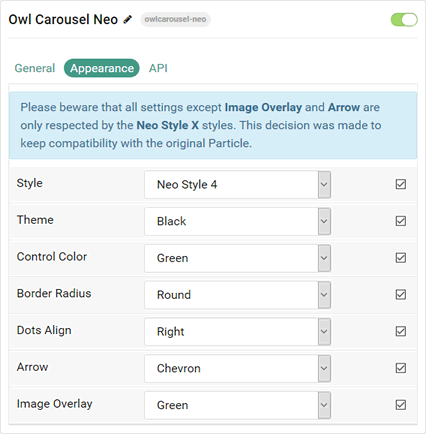
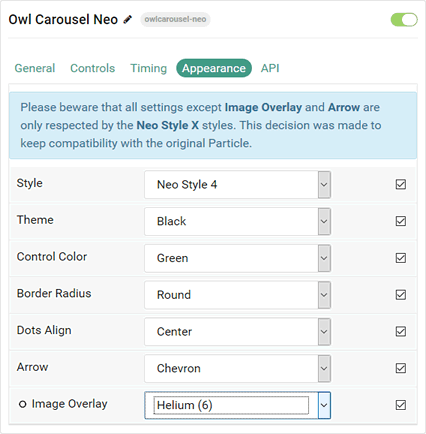
addded screenshots for v1.1.0

diff --git a/README.md b/README.md
@@ -99,13 +99,21 @@ Insight of the *Owl Carousel Neo - Gantry Particle* configuration:
 
 ![2](/screenshots/backend_general_2.png)
 
-**Backend (3)** - *[Appearance](/screenshots/backend_appearance.png)*
+**Backend (3)** - *[Controls](/screenshots/backend_controls.png)*
 
-![3](/screenshots/backend_appearance.png)
+![3](/screenshots/backend_controls.png)
 
-**Backend (4)** - *[API](/screenshots/backend_api.png)*
+**Backend (4)** - *[Timing](/screenshots/backend_timing.png)*
 
-![4](/screenshots/backend_api.png)
+![4](/screenshots/backend_timing.png)
+
+**Backend (5)** - *[Appearance](/screenshots/backend_appearance.png)*
+
+![5](/screenshots/backend_appearance.png)
+
+**Backend (6)** - *[API](/screenshots/backend_api.png)*
+
+![6](/screenshots/backend_api.png)
 ___
 
 A few example configurations which show the new design of the Particle:
